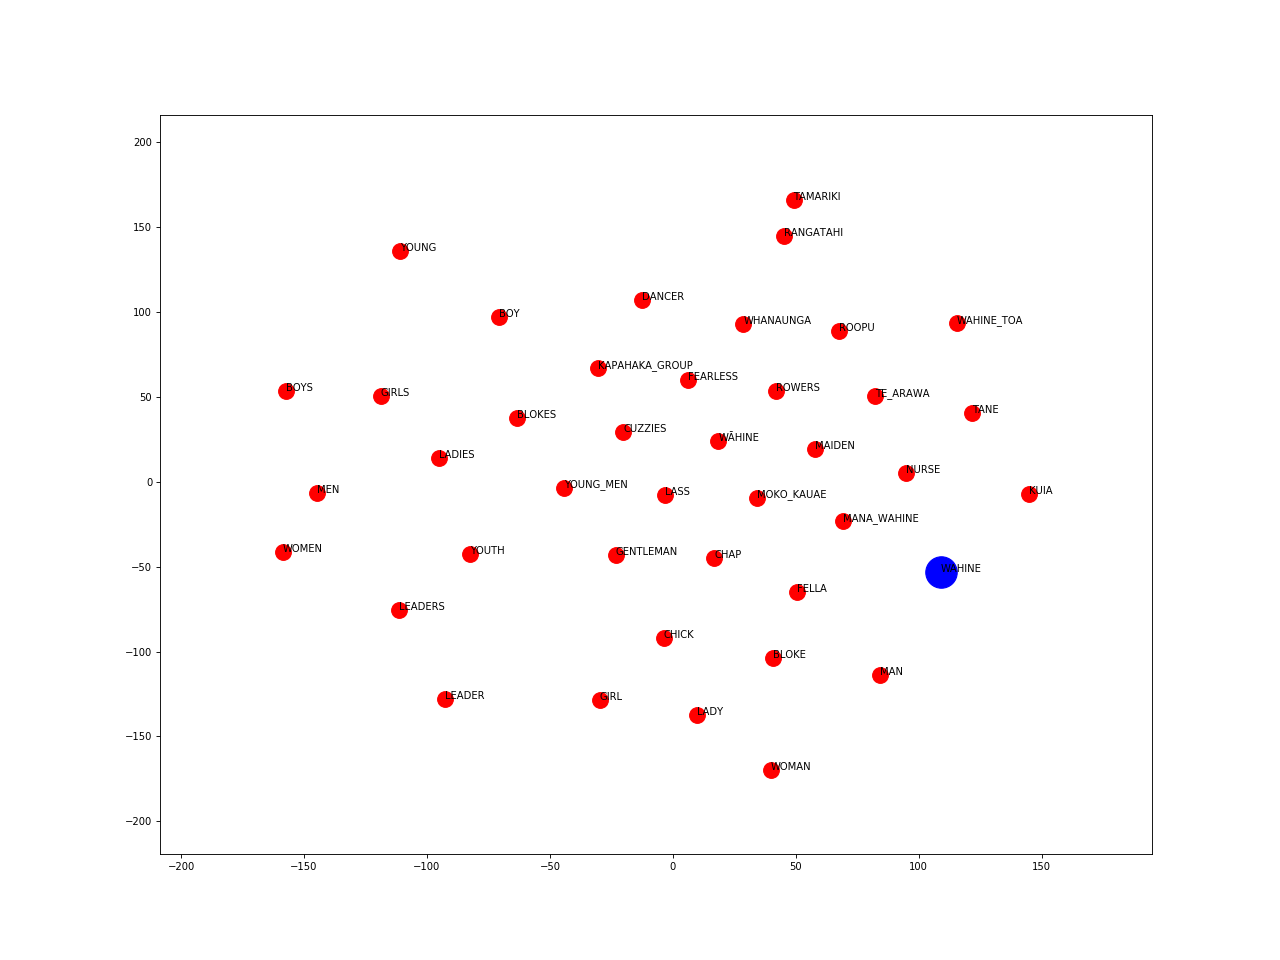
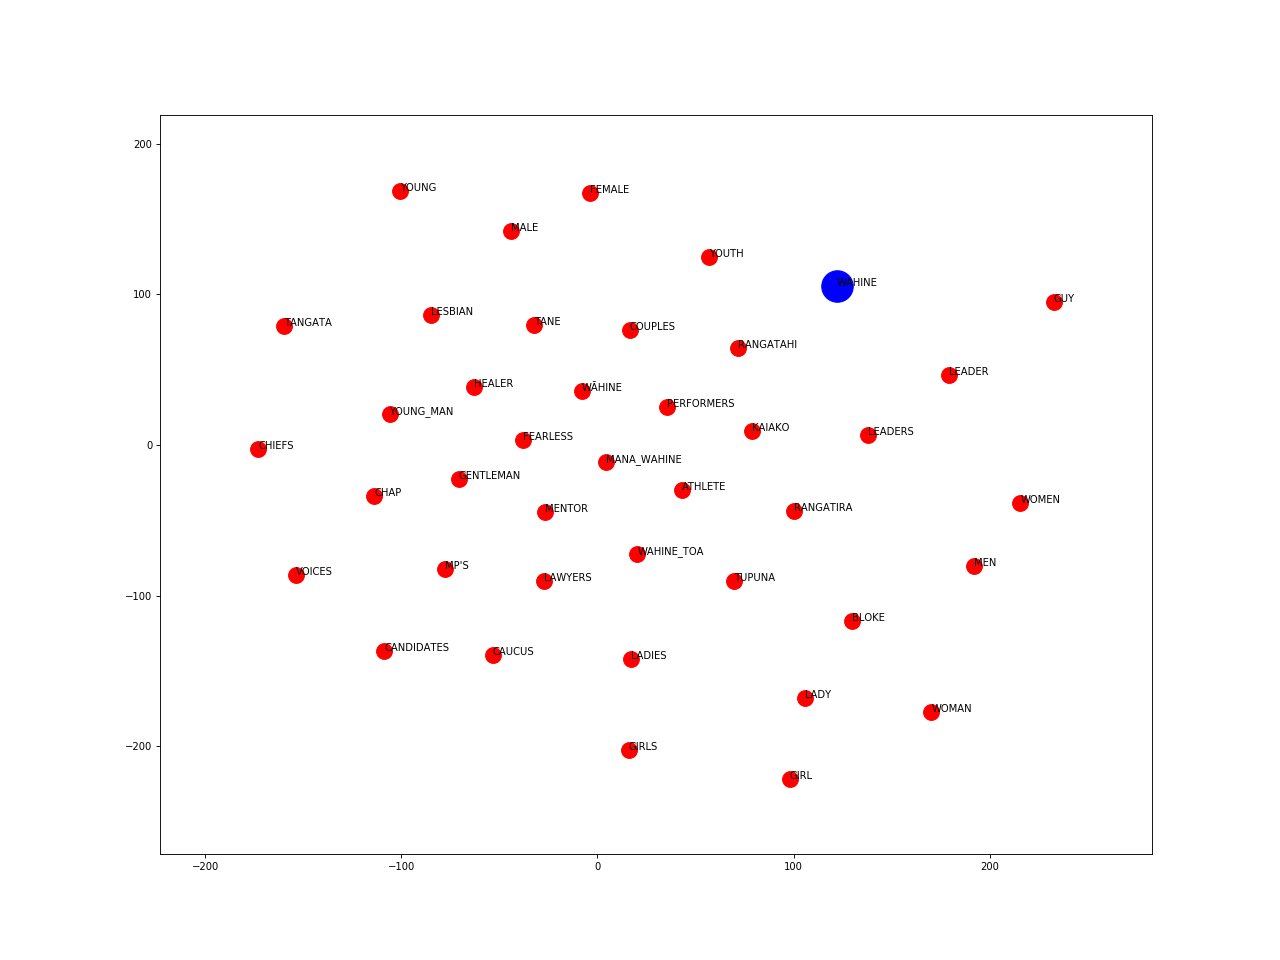
new experiments

diff --git a/embeddings/functions.py b/embeddings/functions.py
@@ -21,7 +21,9 @@ from .twokenize import tokenizeRawTweetText
 import numpy
 import os
 import re
-import matplotlib.pyplot as plt
+import matplotlib
+matplotlib.use('agg')
+import pylab as plt
 from sklearn.manifold import TSNE
 
 
@@ -134,7 +136,7 @@ def eval_embeddings(model_folder, gold_pairs, target):
 
 
  
-def t_sne_scatterplot(model_file = "experiments/Word2Vec-w5-d100.bin", words = ['marae','kia_ora','whanau','wahine','hapu','kura','haka','kiwi','whakapapa','kia_kaha','matariki','aroha'], target = "pics"):
+def t_sne_scatterplot(model_file = "experiments/Word2Vec-w2-d200.bin", words = ['marae','kia_ora','whanau','wahine','hapu','kura','haka','kiwi','whakapapa','kia_kaha','matariki','aroha'], target = "pics"):
     """
     plots word vectors
     """ 
